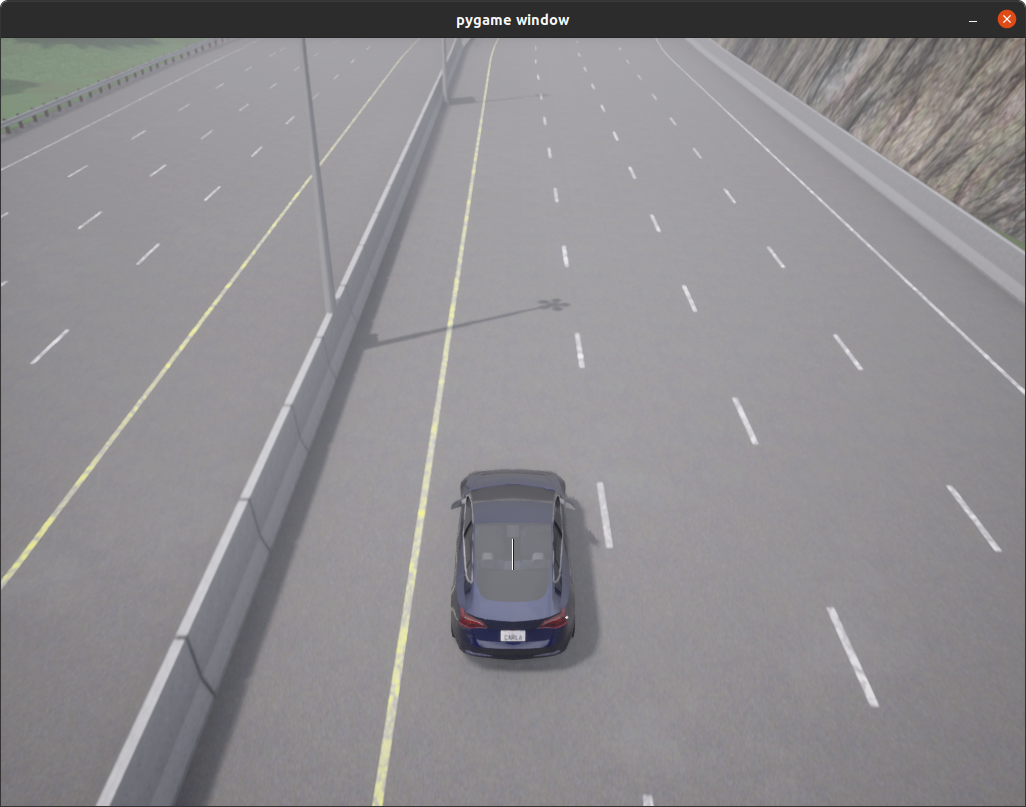
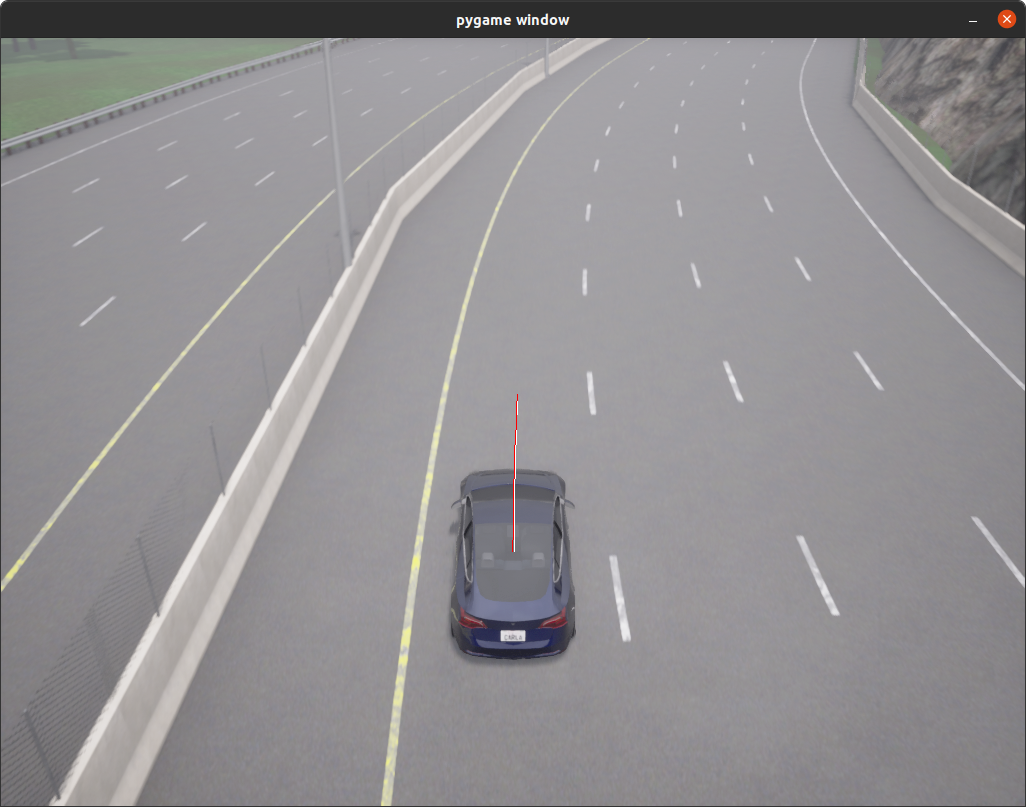
refine mpc

diff --git a/mpc.py b/mpc.py
@@ -5,7 +5,7 @@ from scipy.optimize import minimize
 
 class MPC:
 
-    HORIZON = 6
+    HORIZON = 10
     L = 2.5
 
     def __init__(self, drawer, ego):
@@ -28,23 +28,16 @@ class MPC:
             x += self.speed_dt
             x_arr.append(x)
         self.locs = np.vstack((x_arr, np.polyval(poly, x_arr))).T
-        self.drawer.draw_camera_lines((255, 255, 255), utils.to_global_frame(self.ego, self.locs), 1)
-
-        self.psi_arr = []
-        vec_0 = utils.r_loc_2_vec_3d([1, 0, 0])
-        for i in range(self.HORIZON - 1):
-            vec_1 = utils.r_loc_2_vec_3d(self.locs[i + 1]) - utils.r_loc_2_vec_3d(self.locs[i])
-            psi = np.deg2rad(utils.get_vector_degree(vec_0, vec_1))
-            if vec_1.y < 0:
-                psi = -psi
-            self.psi_arr.append(psi)
 
         # mpc
         bounds = np.full((self.HORIZON, 2), (-0.3, 0.3))
         init_steer_arr = np.full(self.HORIZON, 0)
         solution = minimize(self.objective, init_steer_arr, (), method='SLSQP', bounds=bounds, tol=1e-4)
         eval_states = np.array(self.evaluate_states(solution.x))[:, 0:2]
-        self.drawer.draw_camera_lines((0, 0, 255), utils.to_global_frame(self.ego, eval_states), 1)
+
+        # draw lines
+        self.drawer.draw_camera_lines((255, 255, 255), utils.to_global_frame(self.ego, self.locs), 1)
+        self.drawer.draw_camera_lines((255, 0, 0), utils.to_global_frame(self.ego, eval_states), 1)
 
         return solution.x[0]
     
@@ -70,16 +63,9 @@ class MPC:
     def objective(self, steer_arr, *args):
         states = self.evaluate_states(steer_arr)
 
-        cost_cte = 0
-        for i in range(self.HORIZON):
-            state = states[i]
-            loc = self.locs[i]
+        state = states[-1]
+        loc = self.locs[-1]
 
-            if i < self.HORIZON - 1:
-                psi = self.psi_arr[i]
-            else:
-                psi = 0
-
-            cost_cte += math.sqrt((state[0] - loc[0]) ** 2 + (state[1] - loc[1]) ** 2 + (state[2] - psi) ** 2)
+        cost_cte = math.sqrt((state[0] - loc[0]) ** 2 + (state[1] - loc[1]) ** 2)
 
         return cost_cte

diff --git a/main.py b/main.py
@@ -43,8 +43,6 @@ class Main():
             wp = _wps[0]
             path.append(wp.transform.location)
 
-        # self.drawer.draw_camera_lines([0, 0, 0], path, 1)
-
         # get forward speed
         velocity = self.ego.get_velocity()
         speed_m_s = math.sqrt(velocity.x ** 2 + velocity.y ** 2 + velocity.z ** 2)
@@ -52,7 +50,7 @@ class Main():
 
         # generate control signal
         control = carla.VehicleControl()
-        control.throttle = 0.3
+        control.throttle = 0.6
         control.steer = self.mpc.run_step(path, speed_m_s, dt)
 
         # apply control signal
